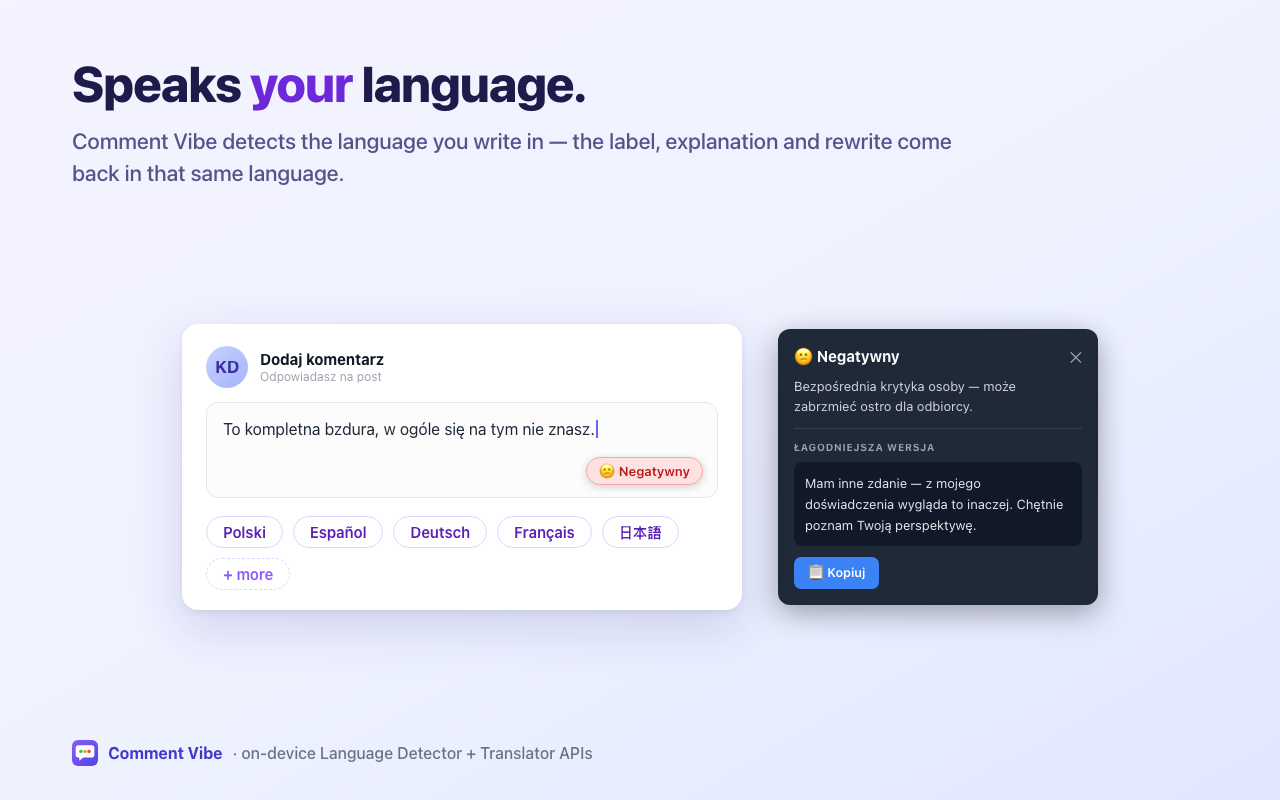
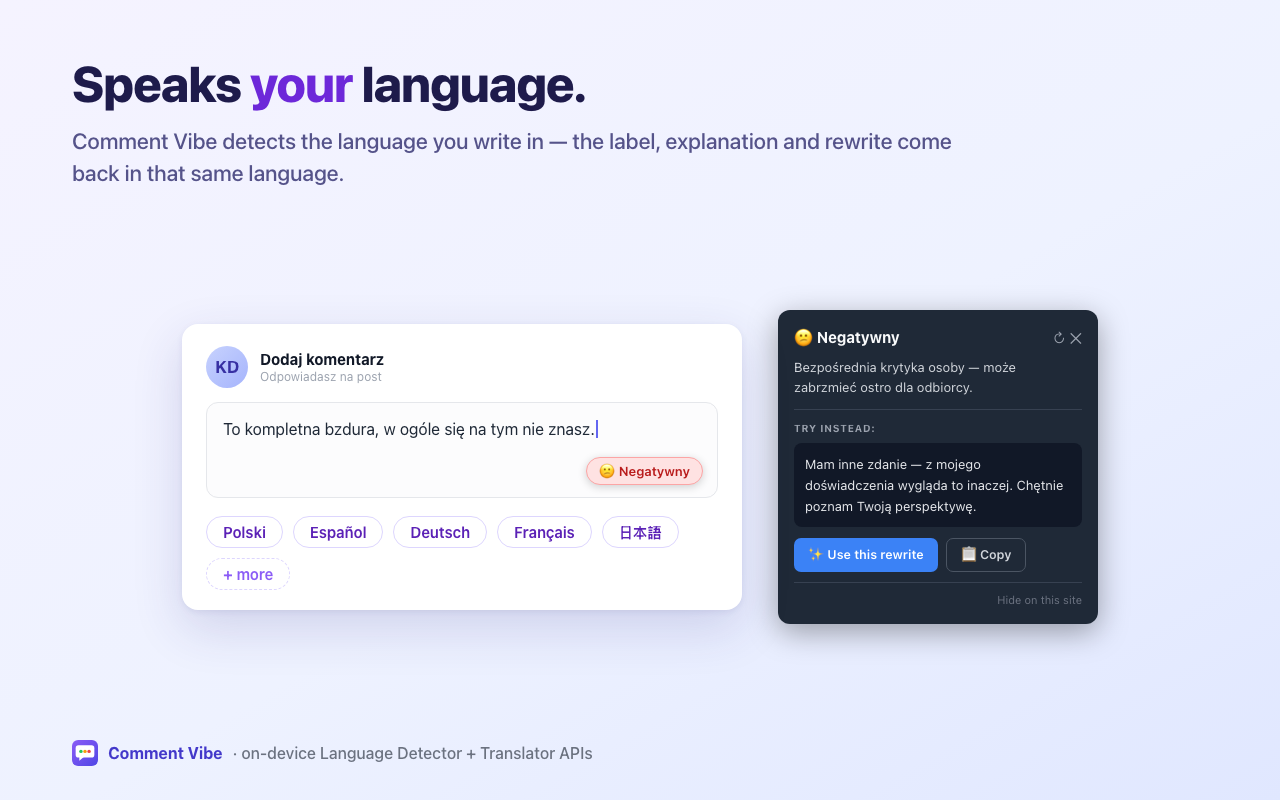
chore(store): refresh screenshots for 1.3.0 UI
- Tooltip mockups now show the real 1.3.0 chrome: refresh icon,
  "Try instead:", the Use this rewrite + Copy actions row, and the
  "Hide on this site" footer link
- New shot6-controls.png: per-site/global toggles in the popup plus the
  tooltip's hide-on-site link
- listing.md: step 3 mentions one-click insert, new YOU'RE IN CONTROL
  section, assets table gains shot6

Generated with [Devin](https://devin.ai)

Changed region(s): [[0.5938, 0.375, 0.875, 0.8125]]

diff --git a/store-assets/src/shot6-controls.html b/store-assets/src/shot6-controls.html
@@ -1,0 +1,78 @@
+<!DOCTYPE html>
+<html><head><meta charset="utf-8"><link rel="stylesheet" href="shared.css">
+<style>
+.popup {
+  width: 320px; background: #fff; border-radius: 16px; padding: 20px;
+  box-shadow: 0 18px 50px rgba(49,46,129,0.16), 0 2px 6px rgba(49,46,129,0.08);
+  display: flex; flex-direction: column; gap: 13px;
+}
+.popup .p-head { display: flex; align-items: center; gap: 10px; }
+.popup .p-head .icon { font-size: 26px; line-height: 1; }
+.popup .p-head .t { font-size: 16px; font-weight: 700; color: #111827; }
+.popup .p-head .s { font-size: 11px; color: #6b7280; }
+.p-status {
+  display: flex; align-items: center; gap: 8px; background: #f0fdf4;
+  color: #15803d; font-size: 13px; font-weight: 500;
+  padding: 8px 12px; border-radius: 10px;
+}
+.p-dot { width: 8px; height: 8px; border-radius: 50%; background: #22c55e; }
+.p-prefs { border-top: 1px solid #e5e7eb; border-bottom: 1px solid #e5e7eb; padding: 11px 0; display: flex; flex-direction: column; gap: 9px; }
+.p-row { display: flex; align-items: center; gap: 9px; font-size: 13px; font-weight: 500; color: #374151; }
+.p-row .box {
+  width: 15px; height: 15px; border-radius: 4px; background: #3b82f6;
+  color: #fff; font-size: 11px; font-weight: 700;
+  display: flex; align-items: center; justify-content: center;
+}
+.p-pills { display: flex; flex-wrap: wrap; gap: 6px; }
+.p-pills .cv-badge { padding: 3px 10px; font-size: 12px; box-shadow: none; }
+.callout {
+  position: absolute; background: #fff; border-radius: 14px; padding: 14px 18px;
+  box-shadow: 0 10px 30px rgba(49,46,129,0.15); font-size: 14px; color: #374151;
+  display: flex; align-items: center; gap: 10px; font-weight: 500;
+}
+.callout .dot { width: 9px; height: 9px; border-radius: 50%; background: #6d28d9; }
+.stage { position: relative; }
+</style></head>
+<body>
+<div class="canvas">
+  <div class="headline">In control — <em>per site, per click.</em></div>
+  <div class="subline">Mute the badge on any site from the tooltip's "Hide on this site" link, or flip the switches in the popup. Your preferences sync with your browser profile.</div>
+
+  <div class="stage" style="gap:56px;">
+    <div class="popup">
+      <div class="p-head">
+        <span class="icon">💬</span>
+        <div><div class="t">Comment Vibe</div><div class="s">Write kinder, more constructive comments</div></div>
+      </div>
+      <div class="p-status"><span class="p-dot"></span>Chrome AI ready ✓</div>
+      <div class="p-prefs">
+        <div class="p-row"><span class="box">✓</span>Enable Comment Vibe</div>
+        <div class="p-row"><span class="box">✓</span>Enabled on linkedin.com</div>
+      </div>
+      <div class="p-pills">
+        <span class="cv-badge cv-badge--positive">😊 Positive</span>
+        <span class="cv-badge cv-badge--neutral">😐 Neutral</span>
+        <span class="cv-badge cv-badge--negative">😕 Negative</span>
+        <span class="cv-badge cv-badge--toxic">🚫 Toxic</span>
+      </div>
+    </div>
+
+    <div class="cv-tooltip" style="width:340px;">
+      <div class="cv-tooltip-header">
+        <span class="cv-tooltip-title">😕 Negative</span>
+        <span class="cv-tooltip-refresh">↻</span>
+        <span class="cv-tooltip-close">✕</span>
+      </div>
+      <div class="cv-tooltip-reason">Direct personal criticism — this may come across as harsh to the reader.</div>
+      <div class="cv-tooltip-footer"><span class="cv-tooltip-mute" style="color:#93c5fd; text-decoration:underline;">Hide on this site</span></div>
+    </div>
+  </div>
+
+  <div class="callout" style="right:96px; bottom:120px;"><span class="dot"></span>One click — no reload needed</div>
+
+  <div class="brand-strip">
+    <svg width="26" height="26" viewBox="0 0 128 128"><defs><linearGradient id="g" x1="0" y1="0" x2="1" y2="1"><stop offset="0" stop-color="#8b5cf6"/><stop offset="1" stop-color="#4f46e5"/></linearGradient></defs><rect width="128" height="128" rx="30" fill="url(#g)"/><rect x="18" y="26" width="92" height="60" rx="14" fill="#fff"/><path d="M36 82 L36 102 L58 84 Z" fill="#fff"/><circle cx="44" cy="56" r="8.5" fill="#22c55e"/><circle cx="64" cy="56" r="8.5" fill="#f59e0b"/><circle cx="84" cy="56" r="8.5" fill="#ef4444"/></svg>
+    Comment Vibe <span class="tag">· unobtrusive by default, off when you say so</span>
+  </div>
+</div>
+</body></html>

diff --git a/store-assets/src/shared.css b/store-assets/src/shared.css
@@ -74,6 +74,7 @@ body {
 }
 .cv-tooltip-header { display: flex; align-items: center; justify-content: space-between; margin-bottom: 8px; }
 .cv-tooltip-title { font-weight: 700; font-size: 15px; }
+.cv-tooltip-refresh { color: #9ca3af; font-size: 14px; line-height: 1; margin-left: auto; margin-right: 5px; }
 .cv-tooltip-close { color: #9ca3af; font-size: 16px; line-height: 1; }
 .cv-tooltip-reason { color: #d1d5db; font-size: 13px; margin-bottom: 4px; }
 .cv-tooltip-rewrite { border-top: 1px solid #374151; padding-top: 11px; margin-top: 11px; }
@@ -85,11 +86,22 @@ body {
   background: #111827; border-radius: 8px; padding: 11px;
   color: #e5e7eb; font-size: 13px; line-height: 1.6; margin-bottom: 11px;
 }
-.cv-tooltip-copy {
+.cv-tooltip-actions { display: flex; gap: 8px; }
+.cv-tooltip-apply {
   display: inline-flex; align-items: center; gap: 6px;
   background: #3b82f6; color: #fff; border-radius: 7px;
   padding: 6px 14px; font-size: 12.5px; font-weight: 600;
 }
+.cv-tooltip-copy {
+  display: inline-flex; align-items: center; gap: 6px;
+  background: transparent; color: #d1d5db; border: 1px solid #4b5563; border-radius: 7px;
+  padding: 6px 14px; font-size: 12.5px; font-weight: 600;
+}
+.cv-tooltip-footer {
+  border-top: 1px solid #374151; margin-top: 10px; padding-top: 8px;
+  display: flex; justify-content: flex-end;
+}
+.cv-tooltip-mute { font-size: 11px; color: #6b7280; }
 
 /* ── Footer brand strip on screenshots ── */
 .brand-strip {

diff --git a/store-assets/src/shot1-hero.html b/store-assets/src/shot1-hero.html
@@ -24,14 +24,19 @@
     <div class="cv-tooltip">
       <div class="cv-tooltip-header">
         <span class="cv-tooltip-title">😕 Negative</span>
+        <span class="cv-tooltip-refresh">↻</span>
         <span class="cv-tooltip-close">✕</span>
       </div>
       <div class="cv-tooltip-reason">Direct personal criticism — this may come across as harsh to the reader.</div>
       <div class="cv-tooltip-rewrite">
-        <span class="cv-tooltip-rewrite-label">Kinder rewrite</span>
+        <span class="cv-tooltip-rewrite-label">Try instead:</span>
         <div class="cv-tooltip-rewrite-text">I see this differently — my experience with it hasn't matched what you describe. Happy to compare notes.</div>
-        <span class="cv-tooltip-copy">📋 Copy</span>
+        <div class="cv-tooltip-actions">
+          <span class="cv-tooltip-apply">✨ Use this rewrite</span>
+          <span class="cv-tooltip-copy">📋 Copy</span>
+        </div>
       </div>
+      <div class="cv-tooltip-footer"><span class="cv-tooltip-mute">Hide on this site</span></div>
     </div>
   </div>
 

diff --git a/store-assets/src/shot4-languages.html b/store-assets/src/shot4-languages.html
@@ -35,14 +35,19 @@
     <div class="cv-tooltip">
       <div class="cv-tooltip-header">
         <span class="cv-tooltip-title">😕 Negatywny</span>
+        <span class="cv-tooltip-refresh">↻</span>
         <span class="cv-tooltip-close">✕</span>
       </div>
       <div class="cv-tooltip-reason">Bezpośrednia krytyka osoby — może zabrzmieć ostro dla odbiorcy.</div>
       <div class="cv-tooltip-rewrite">
-        <span class="cv-tooltip-rewrite-label">Łagodniejsza wersja</span>
+        <span class="cv-tooltip-rewrite-label">Try instead:</span>
         <div class="cv-tooltip-rewrite-text">Mam inne zdanie — z mojego doświadczenia wygląda to inaczej. Chętnie poznam Twoją perspektywę.</div>
-        <span class="cv-tooltip-copy">📋 Kopiuj</span>
+        <div class="cv-tooltip-actions">
+          <span class="cv-tooltip-apply">✨ Use this rewrite</span>
+          <span class="cv-tooltip-copy">📋 Copy</span>
+        </div>
       </div>
+      <div class="cv-tooltip-footer"><span class="cv-tooltip-mute">Hide on this site</span></div>
     </div>
   </div>
 

diff --git a/store-assets/src/shot3-rewrite.html b/store-assets/src/shot3-rewrite.html
@@ -29,14 +29,19 @@
     <div class="cv-tooltip big">
       <div class="cv-tooltip-header">
         <span class="cv-tooltip-title">🚫 Toxic</span>
+        <span class="cv-tooltip-refresh">↻</span>
         <span class="cv-tooltip-close">✕</span>
       </div>
       <div class="cv-tooltip-reason">Dismissive and insulting language directed at another person.</div>
       <div class="cv-tooltip-rewrite">
-        <span class="cv-tooltip-rewrite-label">Kinder rewrite</span>
+        <span class="cv-tooltip-rewrite-label">Try instead:</span>
         <div class="cv-tooltip-rewrite-text">I don't think this thread is heading in a useful direction — here's what I'd focus on instead.</div>
-        <span class="cv-tooltip-copy">📋 Copy — ready to paste</span>
+        <div class="cv-tooltip-actions">
+          <span class="cv-tooltip-apply">✨ Use this rewrite</span>
+          <span class="cv-tooltip-copy">📋 Copy</span>
+        </div>
       </div>
+      <div class="cv-tooltip-footer"><span class="cv-tooltip-mute">Hide on this site</span></div>
     </div>
   </div>
 

diff --git a/store-assets/listing.md b/store-assets/listing.md
@@ -28,8 +28,13 @@ Powered by Chrome's built-in AI (Gemini Nano), everything runs on your device: n
 
 HOW IT WORKS
 1. Type a comment on LinkedIn, X (Twitter), YouTube, Reddit — any site with a text box.
-2. A small badge appears next to the box showing the detected tone.
-3. Click the badge to see why — and if your comment sounds harsh or toxic, get an instant kinder rewrite you can copy in one click.
+2. A small badge appears next to the box showing the detected tone — it stays put and updates quietly while you type, no flicker.
+3. Click the badge to see why — and if your comment sounds harsh or toxic, get an instant kinder rewrite. "Use this rewrite" inserts it into the box for you; copy still works too.
+
+YOU'RE IN CONTROL
+• "Hide on this site" right in the tooltip — one click and the badge never shows there again
+• Popup toggles: turn Comment Vibe off globally or per site, applied instantly
+• Preferences sync across your signed-in Chrome devices via storage.sync
 
 FOUR CLEAR TONE LABELS
 😊 Positive — constructive and friendly
@@ -66,6 +71,7 @@ TIP: The very first analysis can take a moment while Chrome loads the model — 
 | shot3-rewrite.png | 1280×800 | Screenshot 3 — kinder rewrite flow |
 | shot4-languages.png | 1280×800 | Screenshot 4 — multilingual (Polish demo) |
 | shot5-privacy.png | 1280×800 | Screenshot 5 — on-device privacy |
+| shot6-controls.png | 1280×800 | Screenshot 6 — per-site & global controls (v1.3.0) |
 | tile-small.png | 440×280 | Small promo tile |
 | tile-marquee.png | 1400×560 | Marquee promo tile |
 
